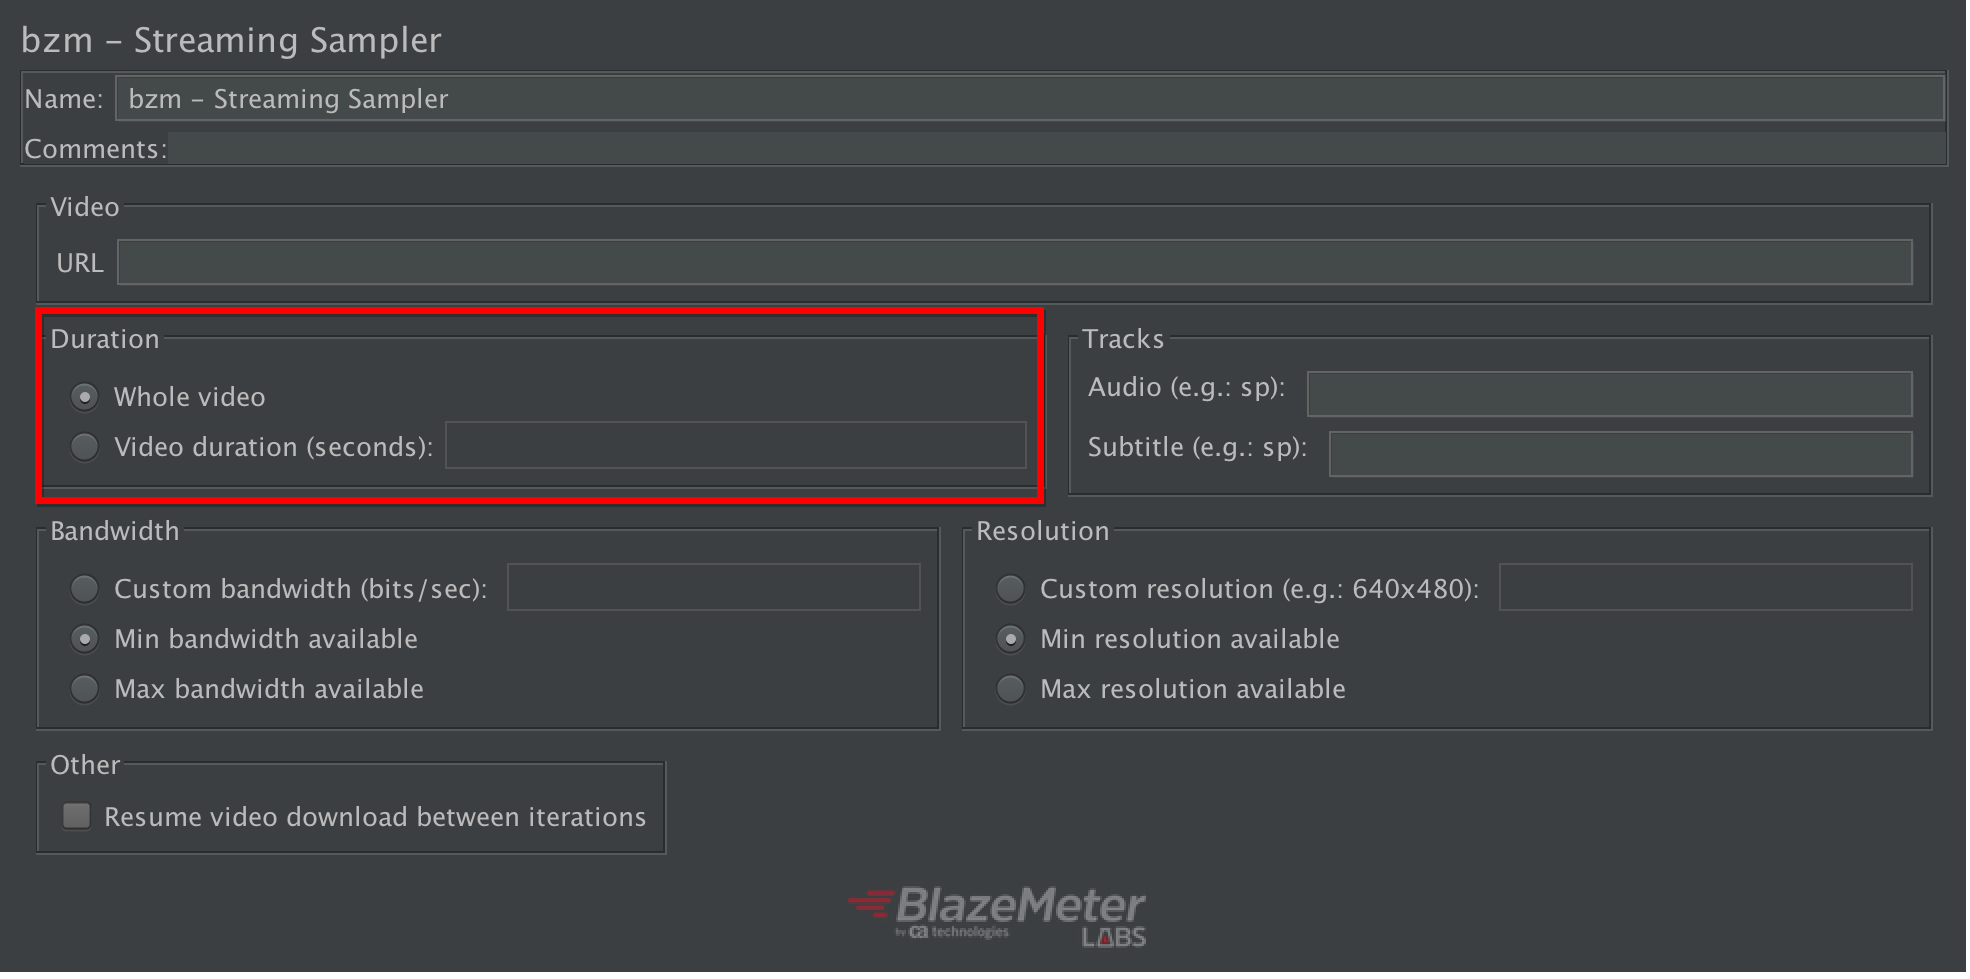
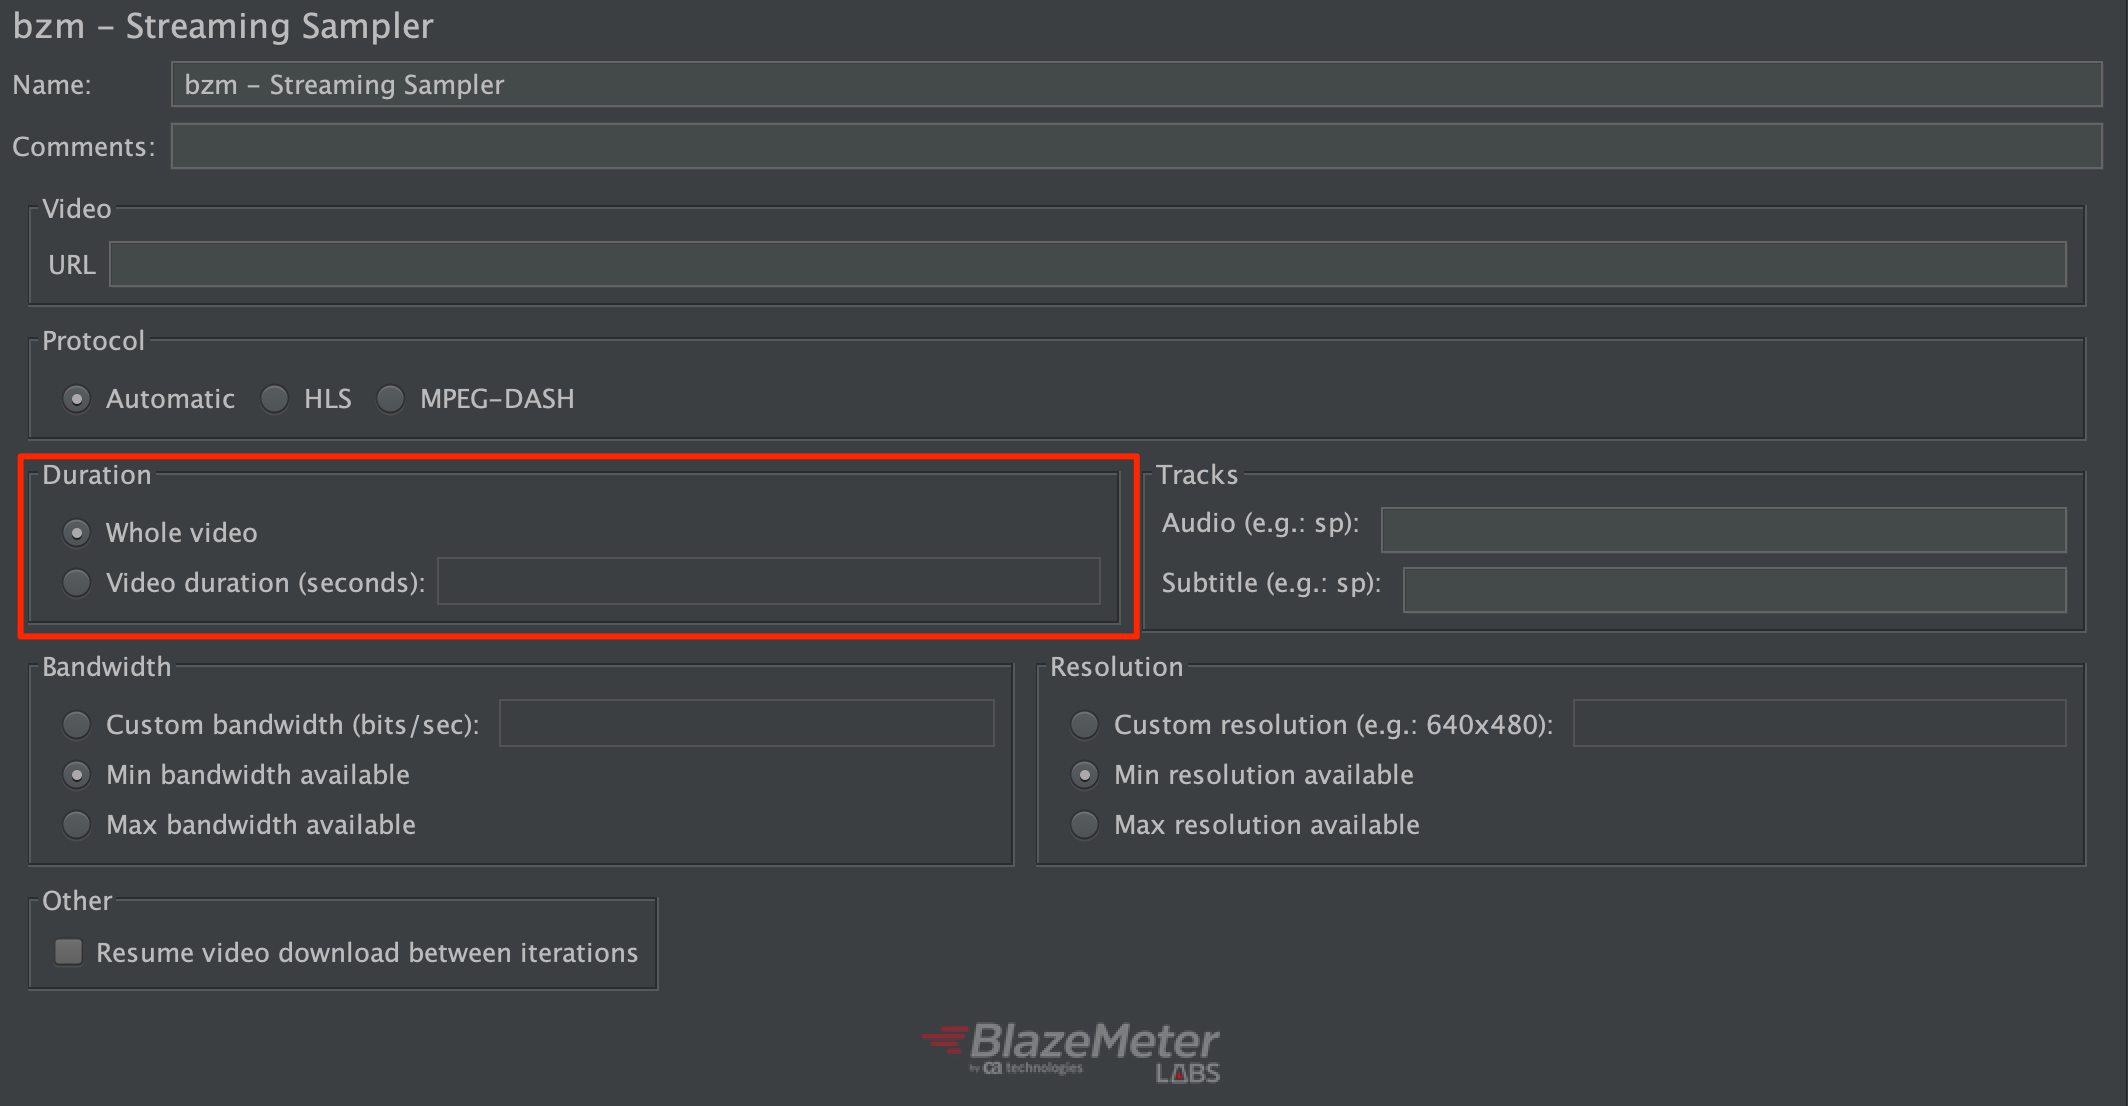
US745261: Update documentation and version for the 3.1 release
Update documentation and version for the 3.1 release

diff --git a/README.md b/README.md
@@ -20,7 +20,7 @@ In future releases, the plugin will be named "Video Streaming Plugin" instead of
 - The encoder creates a Master Playlist File with the URLs of each Media Playlist.
 To play, the client first downloads the Master Playlist, and then the Media Playlists. Then, they play each Media Segment declared within the chosen Media Playlist. The client can reload the Playlist to discover any added segments. This is needed in cases of live events, for example.
 
-Notice that the recognition of the HLS protocol is based on the requirement of the URL extension of the Master playlist link, which must have ".m3u8" on it, as specified on the [ISO regulation](https://tools.ietf.org/html/rfc8216#section-4).
+Notice that the automatic recognition of the HLS protocol is based on the requirement of the URL extension of the Master playlist link, which must have ".m3u8" on it, as specified on the [ISO regulation](https://tools.ietf.org/html/rfc8216#section-4).
 
 #### In a Dynamic Adaptive Streaming over HTTP Live Streaming process:
 
@@ -60,6 +60,12 @@ After that you can add assertions, listeners, etc.
 Set the link to the master playlist file
 
 ![](docs/video-url.png)
+
+#### Protocol
+
+Set the protocol you want to test or let the plugin to automatically detect it.
+
+![](docs/protocol.png)
 
 #### Duration
 
